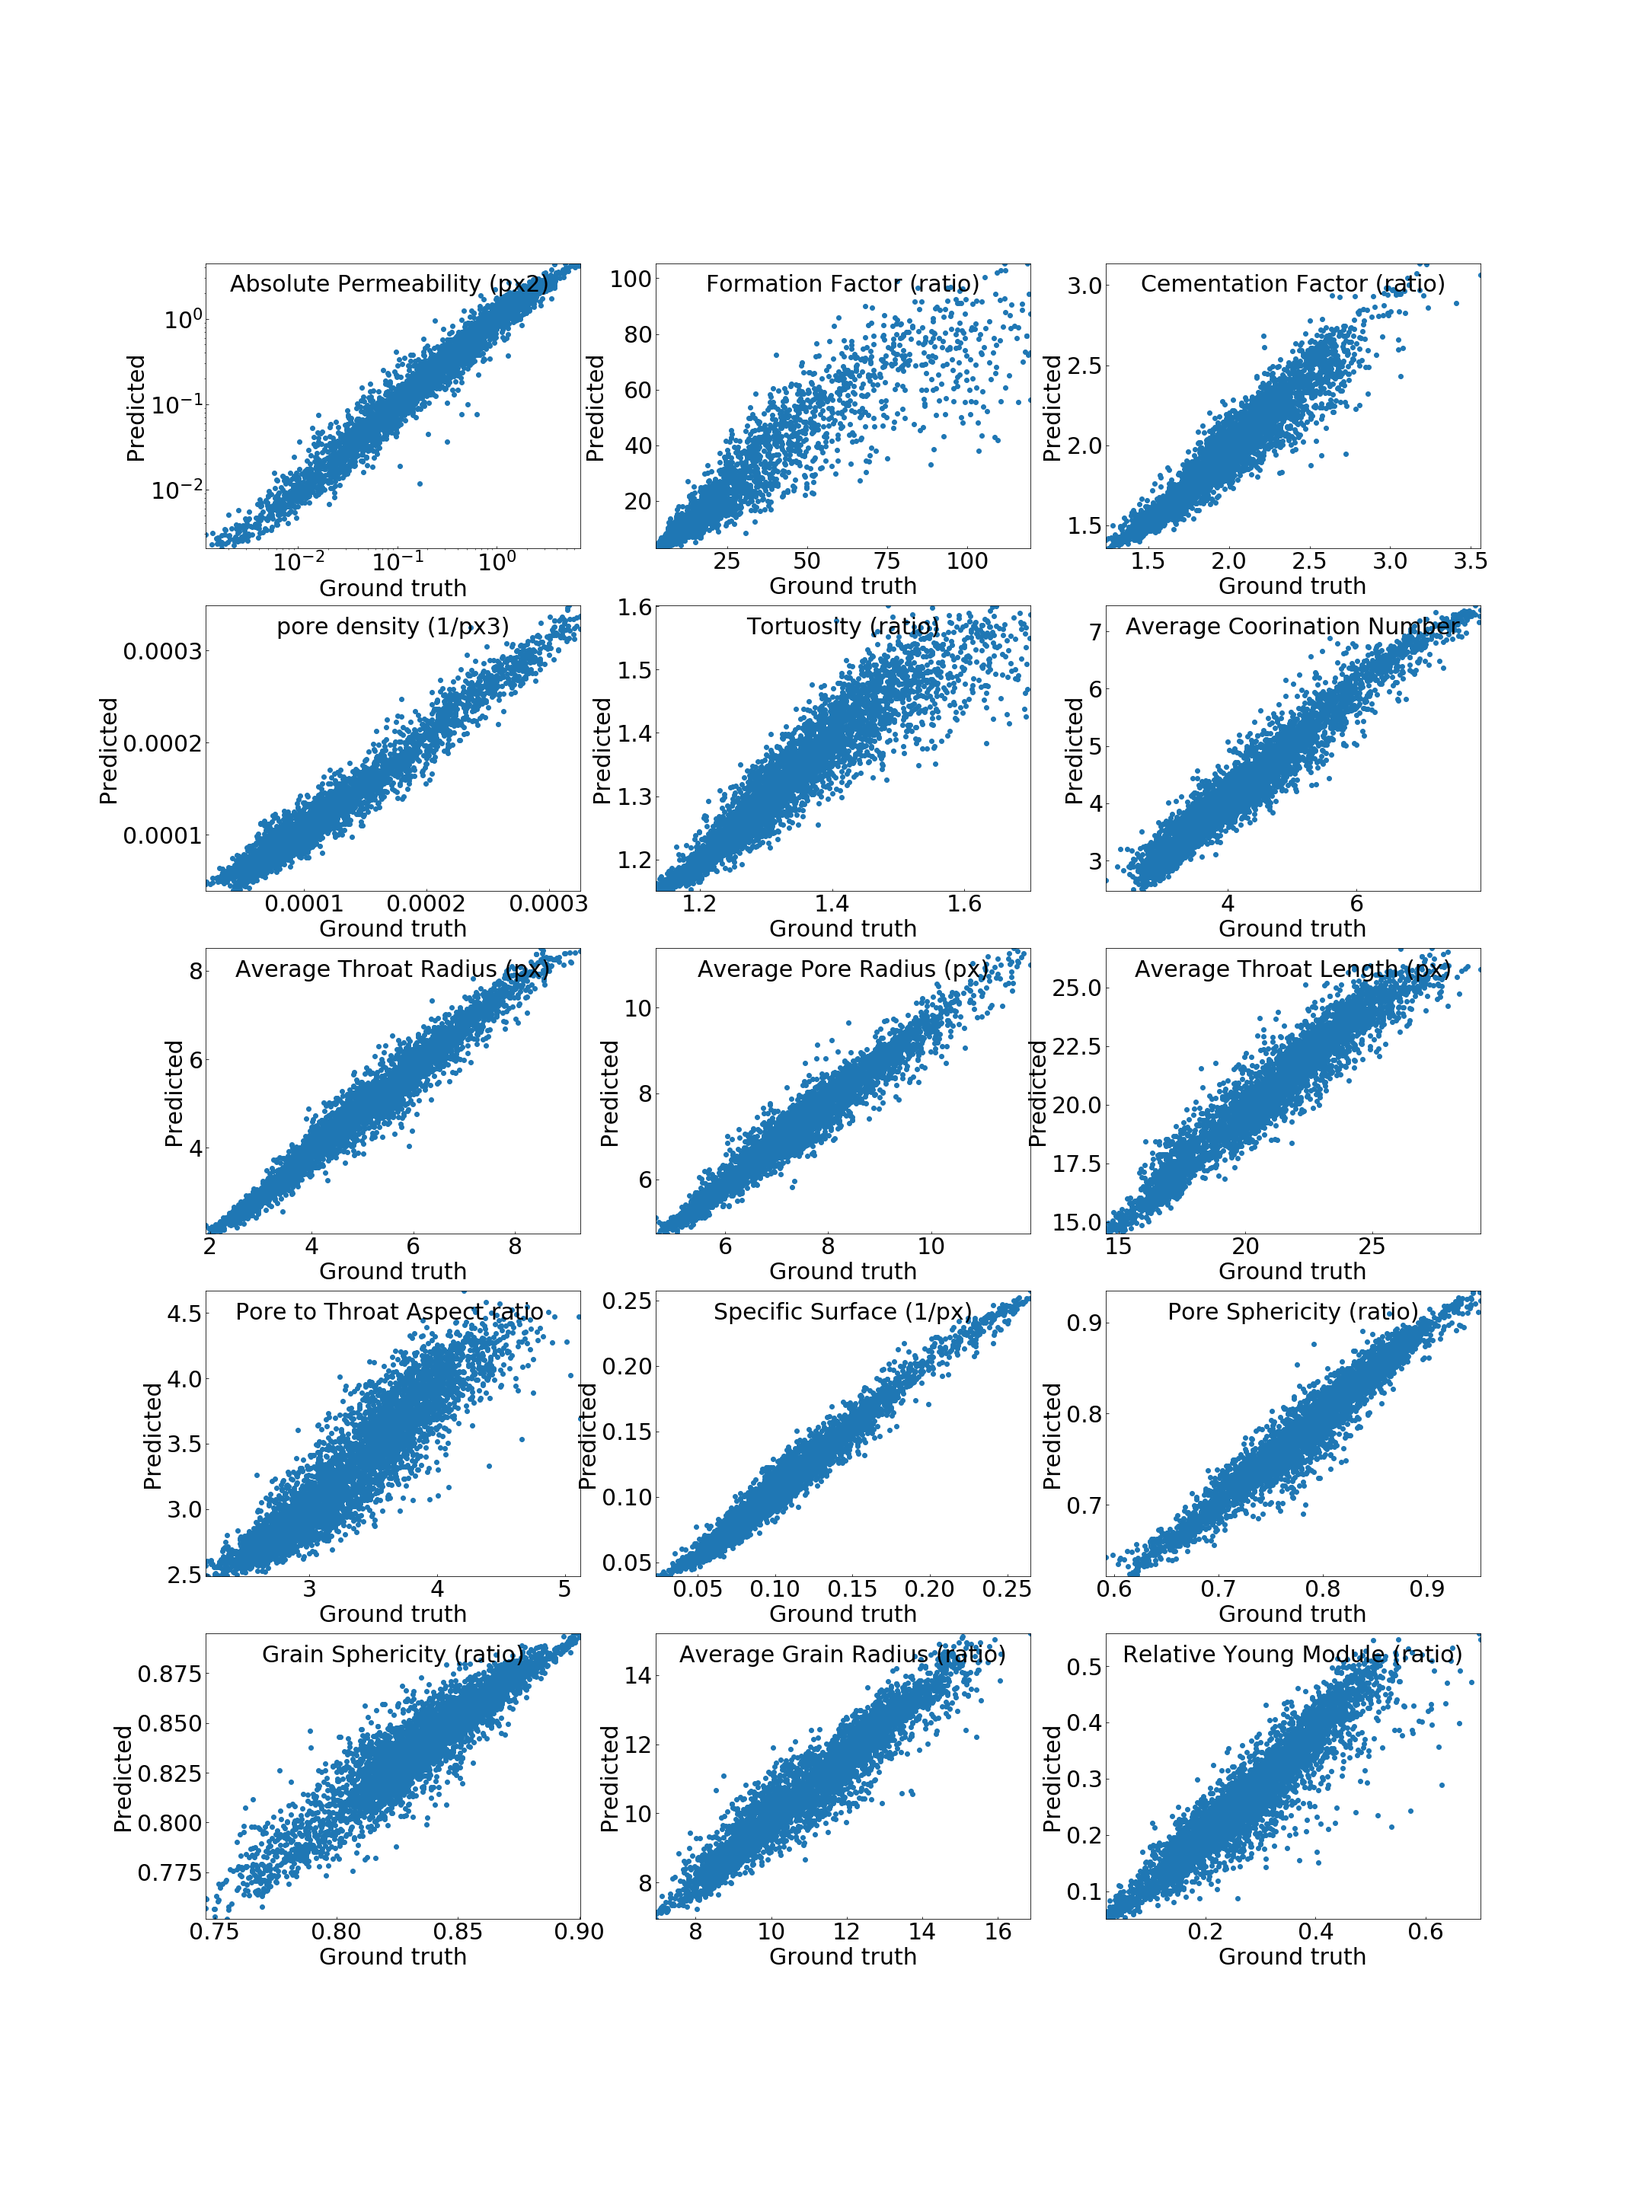
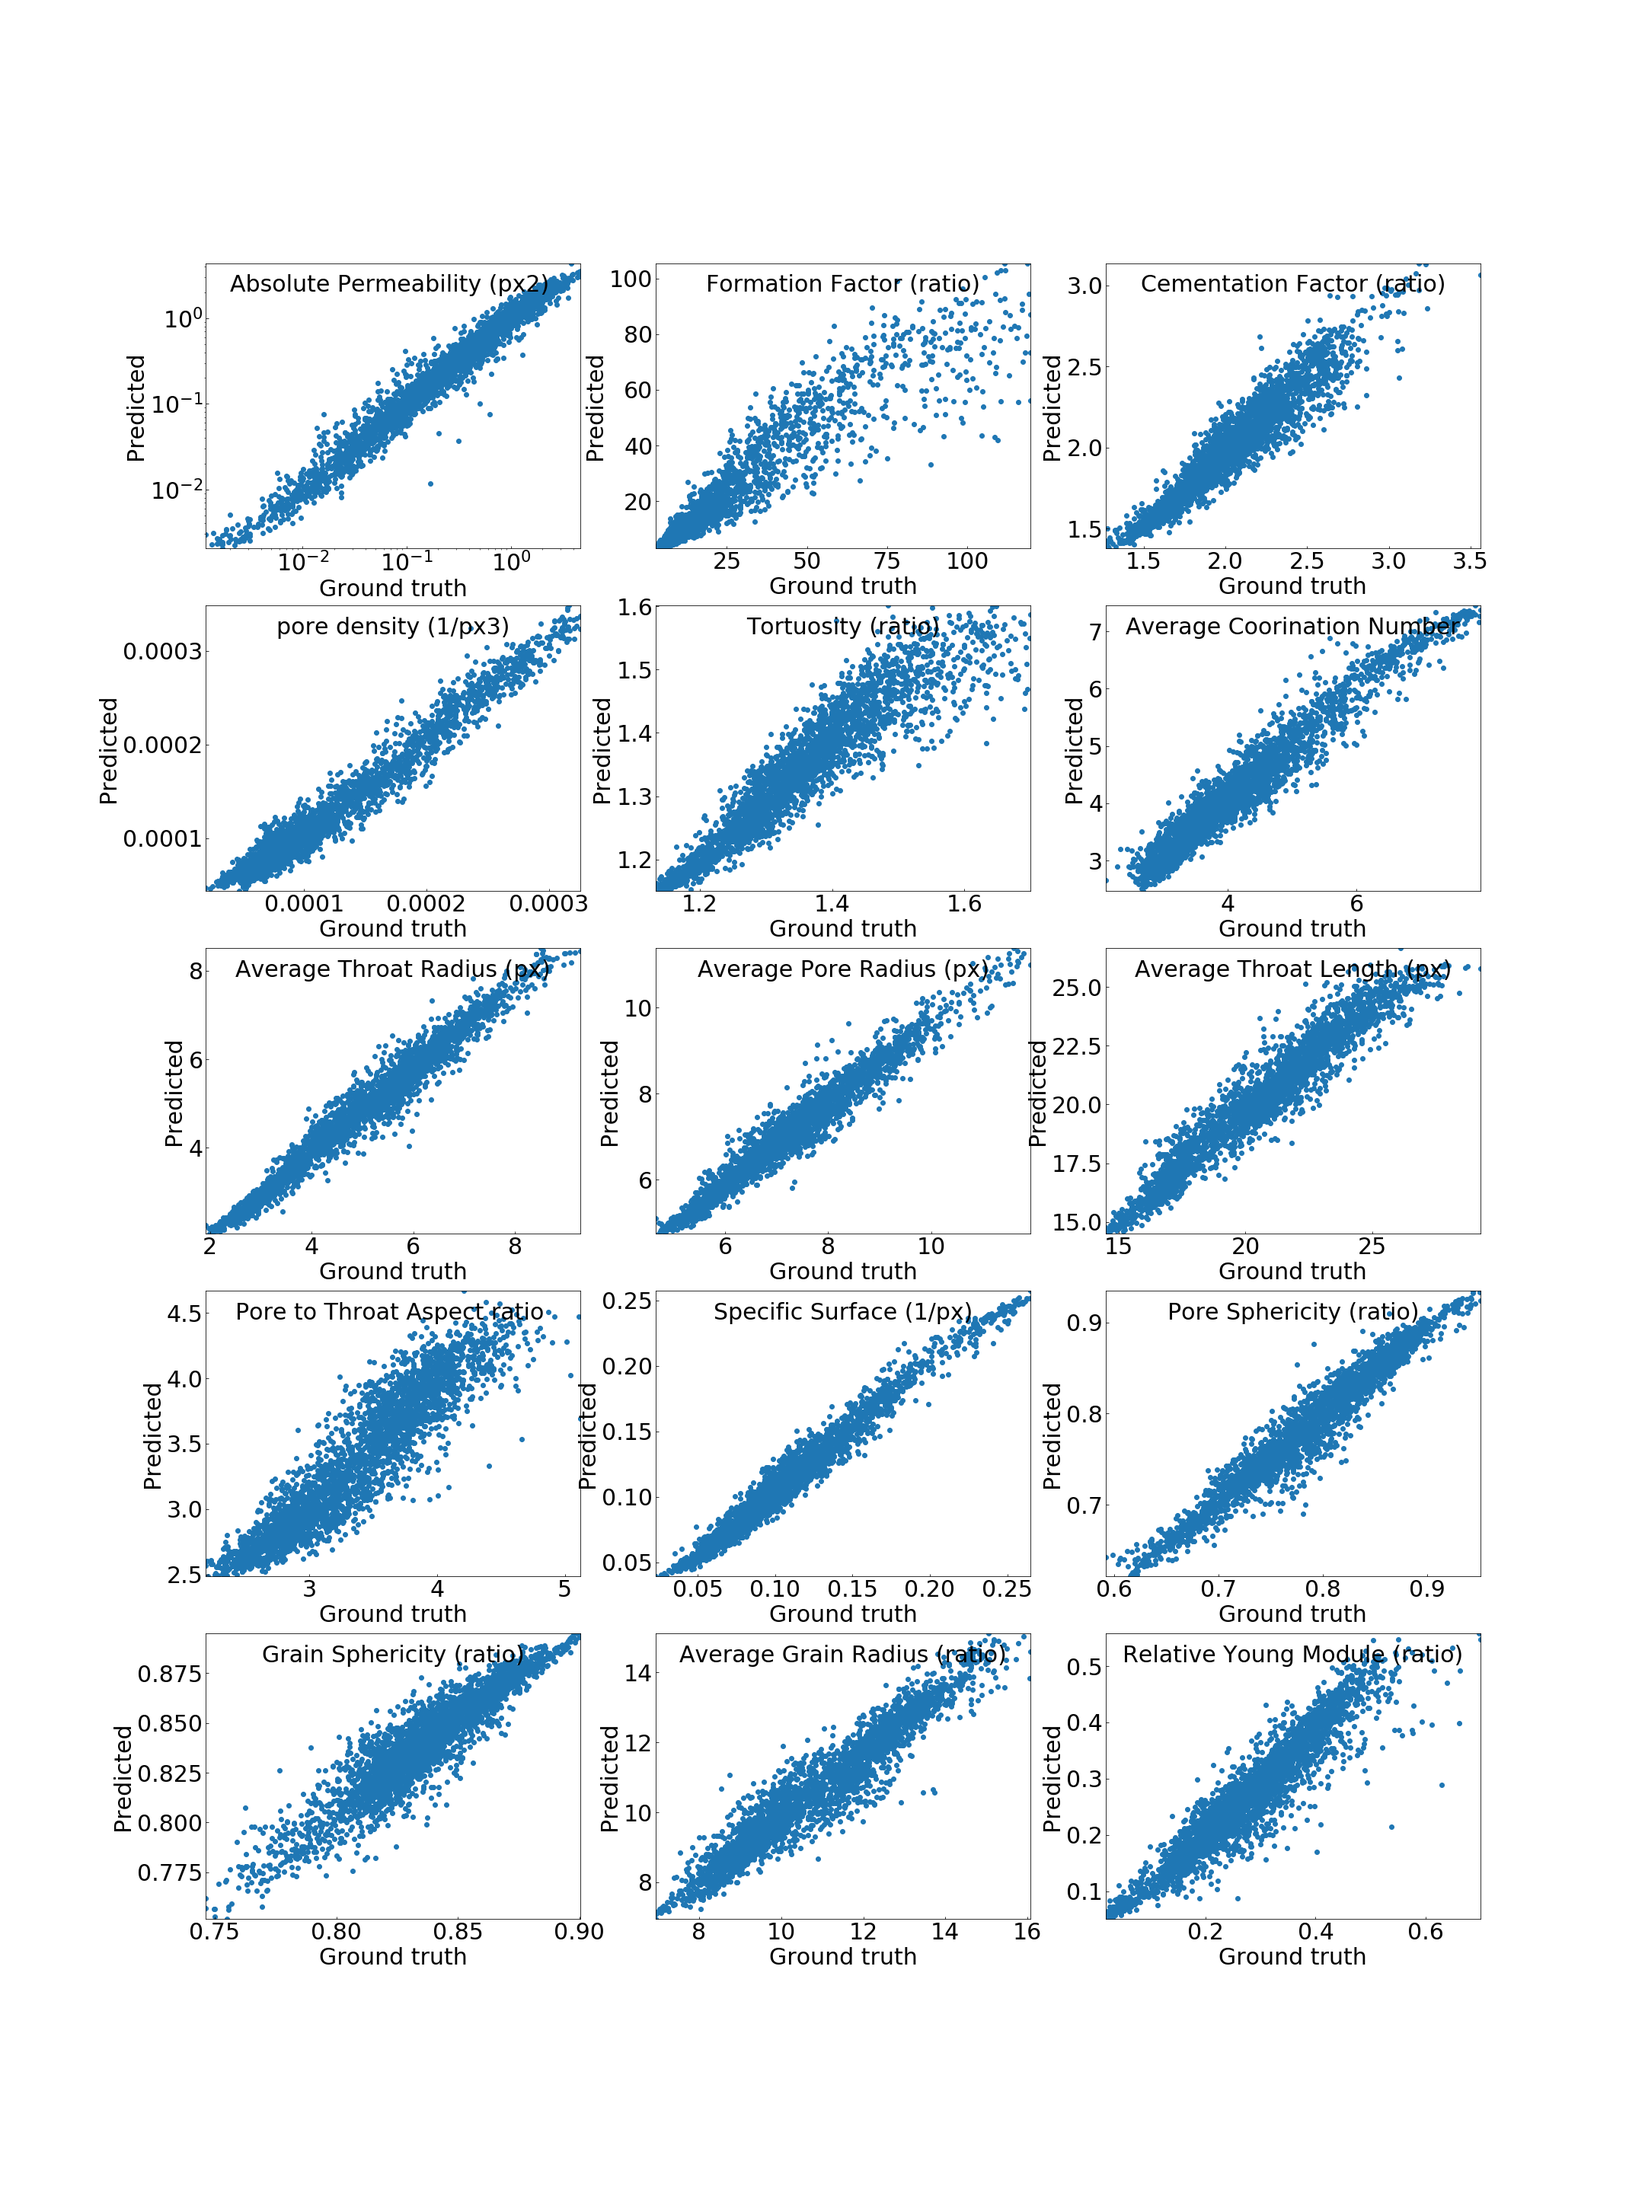
Some Changes

diff --git a/DeePore.py b/DeePore.py
@@ -157,3 +157,23 @@ def testmodel(model,DataName,TestList,MIN,MAX):
     y2=np.multiply(y2,(MAX-MIN))+MIN
     y[:,0]=10**y[:,0]
     y2[:,0]=10**y2[:,0]
+    # #  Show prediction of 15 single-value features
+    import pandas as pd
+    fig=plt.figure(figsize=(30,40))
+    plt.rcParams.update({'font.size': 30})
+    df = pd.read_excel('VarNames.xlsx')
+    for I in range(15):
+        ax = fig.add_subplot(5,3,I+1)
+        X=y[:,I]
+        Y=y2[:,I]
+        plt.scatter(X,Y)
+        plt.ylabel('Predicted')
+        plt.xlabel('Ground truth')
+        plt.tick_params(direction="in")
+        plt.text(.5,.9,df.Value[I],horizontalalignment='center',transform=ax.transAxes)
+        plt.xlim(np.min(X),np.max(X))
+        plt.ylim(np.min(Y),np.max(Y))
+        if I==0:
+            ax.set_yscale('log')
+            ax.set_xscale('log')
+    plt.savefig('Single-value_Features.png')

diff --git a/Main.py b/Main.py
@@ -15,23 +15,4 @@ dp.testmodel(model,DataName,TestList,MIN,MAX)
 
 
 
-# #  Show prediction of 15 single-value features
-# import pandas as pd
-# fig=plt.figure(figsize=(30,40))
-# plt.rcParams.update({'font.size': 30})
-# df = pd.read_excel('VarNames.xlsx')
-# for I in range(15):
-#     ax = fig.add_subplot(5,3,I+1)
-#     X=y[:,I]
-#     Y=y2[:,I]
-#     plt.scatter(X,Y)
-#     plt.ylabel('Predicted')
-#     plt.xlabel('Ground truth')
-#     plt.tick_params(direction="in")
-#     plt.text(.5,.9,df.Value[I],horizontalalignment='center',transform=ax.transAxes)
-#     plt.xlim(np.min(X),np.max(X))
-#     plt.ylim(np.min(Y),np.max(Y))
-#     if I==0:
-#         ax.set_yscale('log')
-#         ax.set_xscale('log')
-# plt.savefig('Single-value_Features.png')
+

diff --git a/README.md b/README.md
@@ -1,2 +1,4 @@
 # A Deep learning workflow for rapid and comprehensive characterization of porous materials
 The firts section of the DeePore repository is a deep learning workflow for rapid estimation of a wide range of porous material properties based on the binarized micro-tomography images. We generated 17700 semi-real 3-D micro-structures of porous geo-materials and 30 physical properties of each sample are calculated using physical simulations on the corresponding pore network models. The dataset of porous material images obtained and physical features of them are unprecedented in terms of the number of samples and variety of the extracted features. Next, a re-designed feed-forward convolutional neural network is trained based on the dataset to estimate several morphological, hydraulic, electrical, and mechanical characteristics of porous material in a fraction of a second. The average coefficient of determination (R2) for 3173 testing samples is 0.9385 which is very reasonable considering the wide range of micro-structure textures and extracted features. This workflow is compatible with any physical size of the images due to its dimensionless approach. 
+
+[![Image](images/vid1.jpg)](http://google.com.au/)
